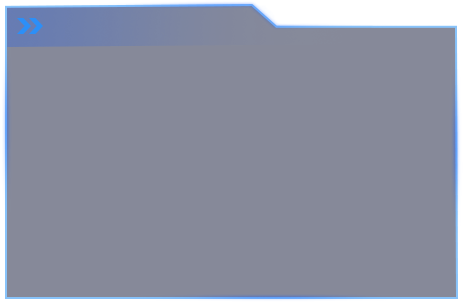
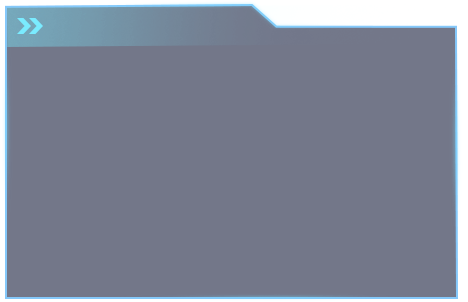
提交代码

diff --git a/src/components/common/MC/MC03.vue b/src/components/common/MC/MC03.vue
@@ -136,11 +136,21 @@ export default {
               // }
             // }
             lineStyle: {
-              width: 3
+              width: 3,
             },
             // 区域填充样式
             areaStyle: {
-              opacity: 0.2
+              // opacity: 0.2,
+              normal: { //颜色渐变函数 前四个参数分别表示四个位置依次为左、下、右、上
+                    color: new echarts.graphic.LinearGradient(0, 0, 0, 1,[{
+                            offset: 0, color: '#fdb751' // 0% 处的颜色
+                        }, {
+                            offset: 0.4, color: '#fdb751b0' 
+                        }, {
+                            offset: 1, color: '#141e3f' // 100% 处的颜色
+                        }]
+                    ),    
+                },   
             }
           }
         ]
@@ -178,7 +188,7 @@ export default {
   width: 8px;
   height: 66%;
   margin-right: 5px;
-  background: #3374d0;
+  background: #60dbff;
   -webkit-animation: load-data-v-536c2323 1.04s ease infinite;
   transform: skewX(50deg);
 }

diff --git a/src/components/common/home.vue b/src/components/common/home.vue
@@ -77,7 +77,7 @@
           </div>
         </div>
 
-        <div class="menu-sub">
+        <!-- <div class="menu-sub">
           <div class="menu-sub-item">
             <img src="../../assets/img/title-sub-bg.png" alt="" class="menu-sub-img">
           </div>
@@ -87,11 +87,11 @@
           <div class="menu-sub-item">
             <img src="../../assets/img/title-sub-bg.png" alt="" class="menu-sub-img">
           </div>
-        </div>
+        </div> -->
 
         <div class="menu-item-bread">
           <div class="item-info">
-            <img :src="require('../../assets/img/titleBg.png')" alt="" class="menu-img">
+            <img :src="require('../../assets/img/title-1.png')" alt="" class="menu-img1">
             <div class="item-title">{{ pageTarget }}</div>
           </div>
         </div>
@@ -864,6 +864,10 @@
   }
 </script>
 <style scoped>
+.menu-img1{
+  padding-top:10px;
+  margin-left: -10px;
+}
 .main111 {
   /* width: 90px;
 			height: 90px;

diff --git a/src/components/common/MC/MC01.vue b/src/components/common/MC/MC01.vue
@@ -255,7 +255,7 @@ export default {
   width: 8px;
   height: 66%;
   margin-right: 5px;
-  background: #3374d0;
+  background: #60dbff;
   -webkit-animation: load-data-v-536c2323 1.04s ease infinite;
   transform: skewX(50deg);
 }

diff --git a/src/components/common/MC/MC02.vue b/src/components/common/MC/MC02.vue
@@ -196,7 +196,7 @@ export default {
   width: 8px;
   height: 66%;
   margin-right: 5px;
-  background: #3374d0;
+  background: #60dbff;
   -webkit-animation: load-data-v-536c2323 1.04s ease infinite;
   transform: skewX(50deg);
 }

diff --git a/src/components/common/MC/MC06.vue b/src/components/common/MC/MC06.vue
@@ -155,7 +155,7 @@ export default {
   width: 8px;
   height: 66%;
   margin-right: 5px;
-  background: #3374d0;
+  background: #60dbff;
   -webkit-animation: load-data-v-536c2323 1.04s ease infinite;
   transform: skewX(50deg);
 }

diff --git a/src/components/common/MC/MC07.vue b/src/components/common/MC/MC07.vue
@@ -140,7 +140,7 @@ export default {
   width: 8px;
   height: 66%;
   margin-right: 5px;
-  background: #3374d0;
+  background: #60dbff;
   -webkit-animation: load-data-v-536c2323 1.04s ease infinite;
   transform: skewX(50deg);
 }

diff --git a/src/components/common/MC/MC05.vue b/src/components/common/MC/MC05.vue
@@ -214,7 +214,7 @@
   width: 8px;
   height: 66%;
   margin-right: 5px;
-  background: #3374d0;
+  background: #60dbff;
   -webkit-animation: load-data-v-536c2323 1.04s ease infinite;
   transform: skewX(50deg);
 }

diff --git a/src/assets/css/default.css b/src/assets/css/default.css
@@ -44,7 +44,7 @@
   left: 50%;
   top: 50%;
   font-size: 18px;
-  width: 50px;
+  width: 80px;
   height: auto;
   line-height: 22px;
   text-align: center;
